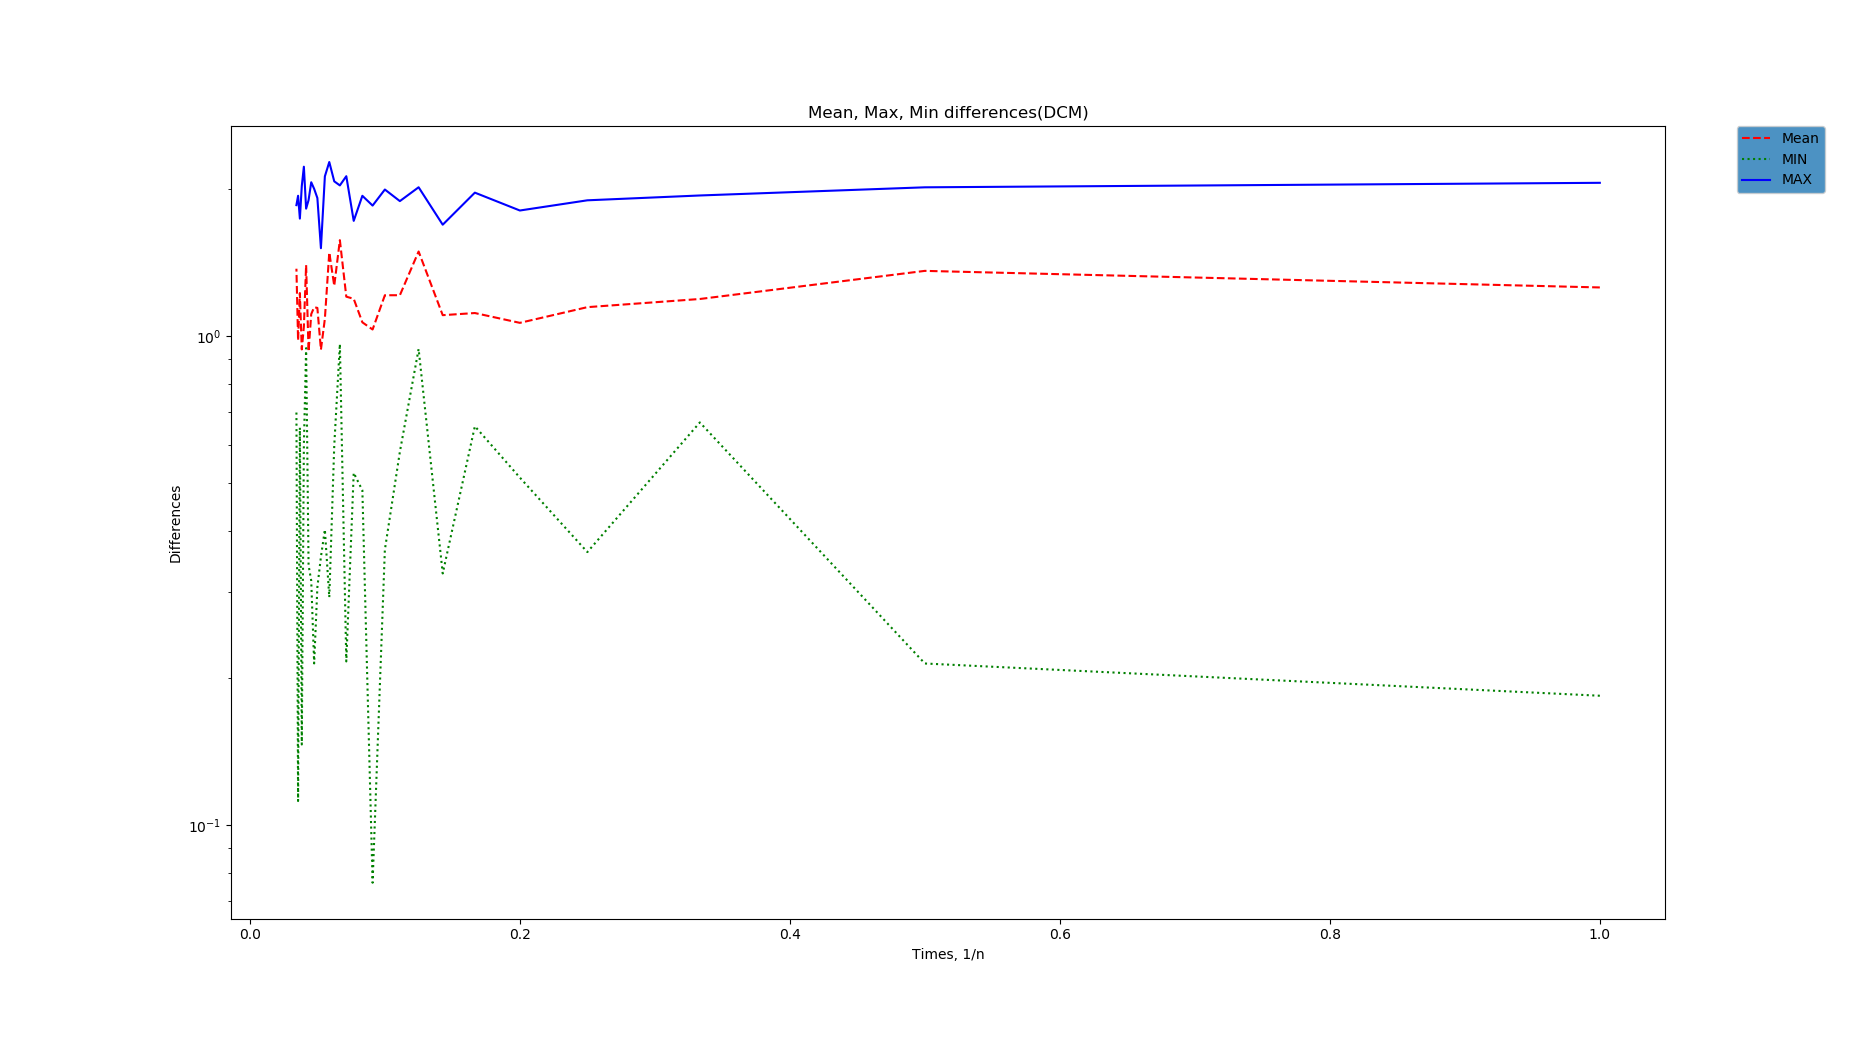
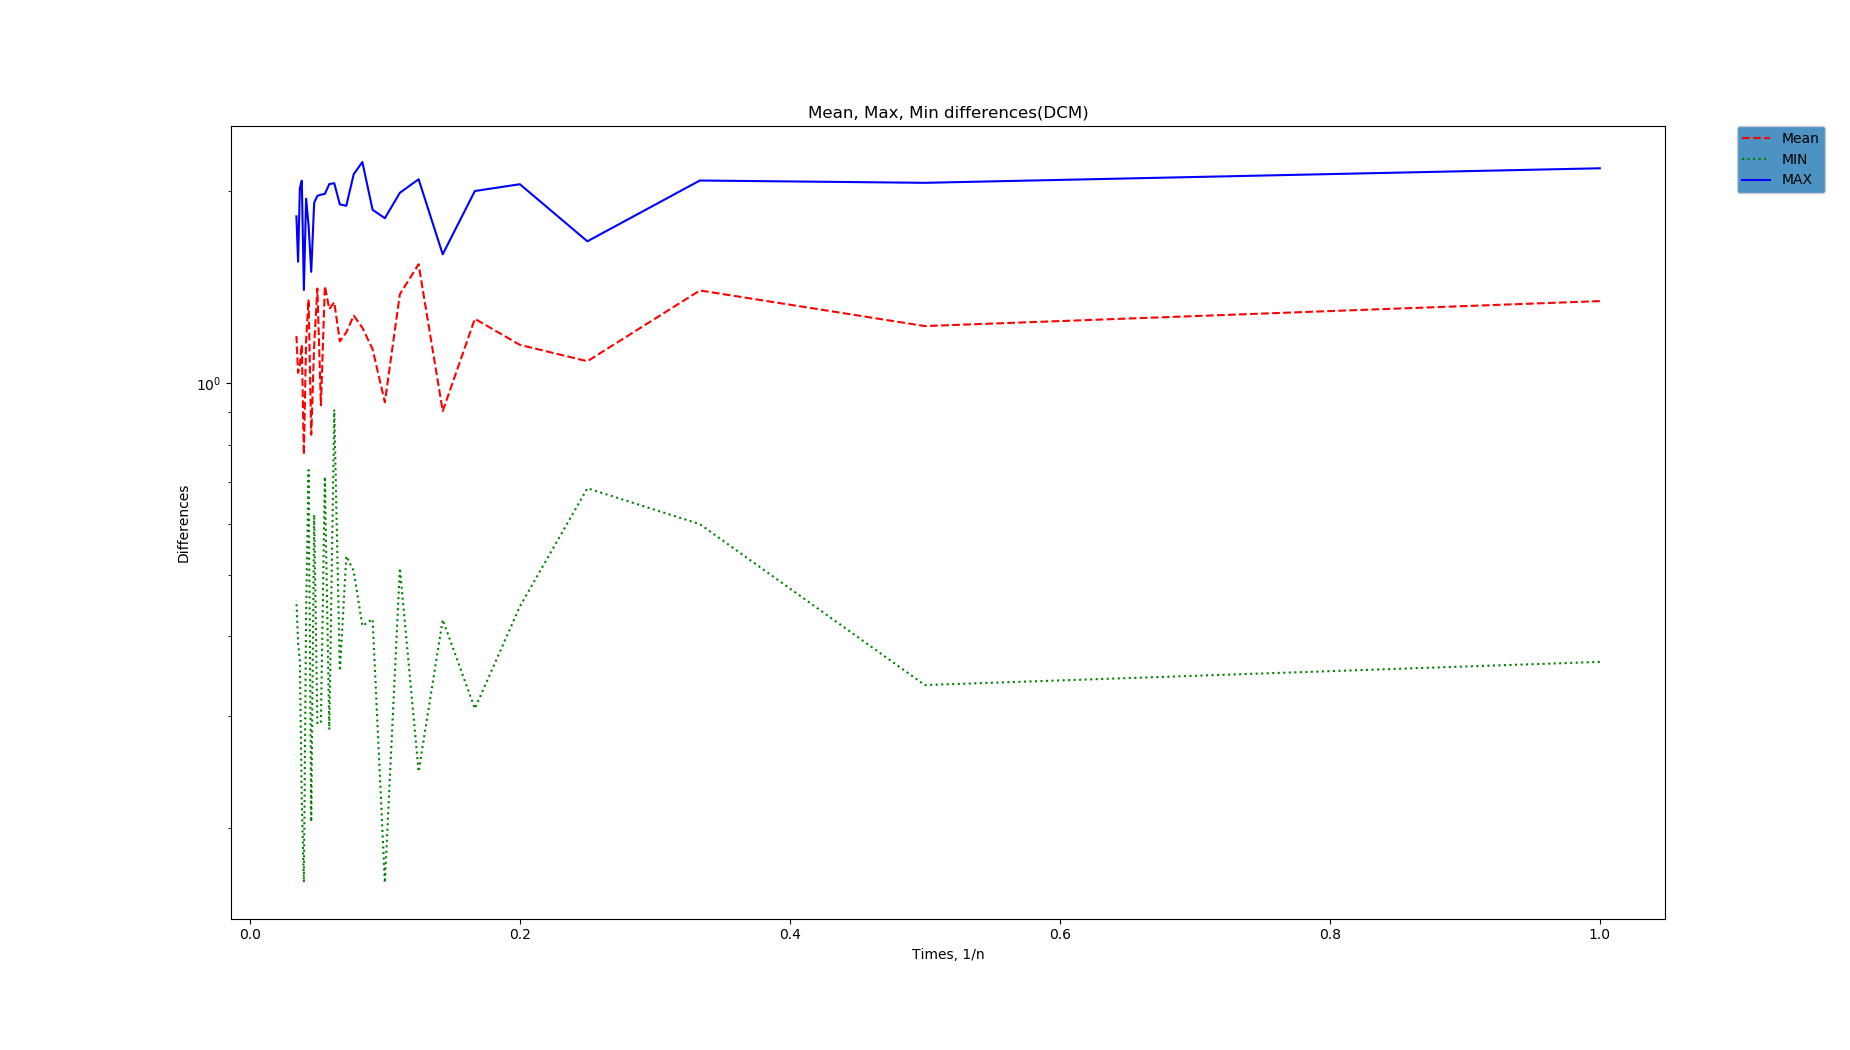
some plot examples

diff --git a/Quaternion_test.py b/Quaternion_test.py
@@ -19,6 +19,7 @@ C = A + B
 print(A)
 print(B)
 print(C)
+
 print("-------test on subtraction operation-------")
 E = Quaternion(1.0, 2.0, 3.0, 4.0)
 F = Quaternion(-2.0, 6.0, 7.0, 8.0)
@@ -26,6 +27,7 @@ G = E - F
 print(E)
 print(F)
 print(G)
+
 print("-------test on dot production-------")
 E = Quaternion(1.0, 2.0, 3.0, 4.0)
 F = Quaternion(-2.0, 6.0, 7.0, 8.0)
@@ -33,6 +35,7 @@ G = E.dot(F)
 print(E)
 print(F)
 print(G)
+
 print("-------test on multiply-------")
 E = Quaternion(1.0, 2.0, 3.0, 4.0)
 F = Quaternion(-2.0, 6.0, 7.0, 8.0)
@@ -40,6 +43,7 @@ G = E*F
 print(E)
 print(F)
 print(G)
+
 print("-------test on scalar multiply-------")
 E = Quaternion(1.0, 2.0, 3.0, 4.0)
 F = 100
@@ -47,28 +51,33 @@ G = E.scalar_mul(F)
 print(E)
 print(F)
 print(G)
+
 print("-------test on norm-------")
 E = Quaternion(1.0, 2.0, 3.0, 4.0)
 print(E.norm())
+
 print("-------test on conjugate-------")
 E = Quaternion(1.0, 2.0, 3.0, 4.0)
 print(E.conj())
+
 print("-------test on Quaternion to DCM-------")
 E = Quaternion(0.0, 1.0, 1.0, 1.0)
 D = E.toDCM()
 print(D)
+
 print("-------test on DCM to Quaternion-------")
 print(f.DCMtoQuaternion(D))
+
 print("-------test on rotation precision------")
 (X1, X2, MEANDIFF, MINDIFF, MAXDIFF) = f.Quaternion_rotation_precision(30, 10, np.pi / 2, np.pi / 2, np.pi / 2)
 fig, ax = plt.subplots()
-ax.semilogy(X1, MEANDIFF, 'k--', label='Mean', color = 'red')
-ax.semilogy(X1, MINDIFF, 'k:', label='MIN', color = 'green')
-ax.semilogy(X1, MAXDIFF, 'k', label='MAX', color = 'blue')
+ax.semilogy(X1, MEANDIFF, 'k--', label = 'Mean', color = 'red')
+ax.semilogy(X1, MINDIFF, 'k:', label = 'MIN', color = 'green')
+ax.semilogy(X1, MAXDIFF, 'k', label = 'MAX', color = 'blue')
 ax.set_xlabel("Times, 1/n")
 ax.set_ylabel("Differences")
 ax.set_title("Mean, Max, Min differences(Quaternion)")
-legend = ax.legend(loc=2, bbox_to_anchor=(1.05,1.0),borderaxespad = 0.)
+legend = ax.legend(loc=2, bbox_to_anchor = (1.05,1.0),borderaxespad = 0.)
 legend.get_frame().set_facecolor('C0')
 plt.show()
 fig.set_size_inches(18.5, 10.5)
@@ -77,9 +86,9 @@ fig.savefig('Quaternion_rotation_Precision.png', dpi = 100)
 print("-------test on DCM rotation-------")
 (X1, X2, MEANDIFF, MINDIFF, MAXDIFF) = f.DCM_rotation_precision(30, 10, np.pi / 2, np.pi / 2, np.pi / 2)
 fig, ax = plt.subplots()
-ax.semilogy(X1, MEANDIFF, 'k--', label='Mean', color = 'red')
-ax.semilogy(X1, MINDIFF, 'k:', label='MIN', color = 'green')
-ax.semilogy(X1, MAXDIFF, 'k', label='MAX', color = 'blue')
+ax.semilogy(X1, MEANDIFF, 'k--', label = 'Mean', color = 'red')
+ax.semilogy(X1, MINDIFF, 'k:', label = 'MIN', color = 'green')
+ax.semilogy(X1, MAXDIFF, 'k', label = 'MAX', color = 'blue')
 ax.set_xlabel("Times, 1/n")
 ax.set_ylabel("Differences")
 ax.set_title("Mean, Max, Min differences(DCM)")
@@ -92,8 +101,8 @@ fig.savefig('DCM_rotation_Precision.png', dpi = 100)
 print("-------compare output differences in Quaternion and DCM-------")
 (X1, X2, MEANDIFF_Q, MINDIFF_Q, MAXDIFF_Q, MEANDIFF_DCM, MINDIFF_Q, MAXDIFF_Q) = f.Quaternion_DCM_rotation_precision(30, 10, np.pi / 2, np.pi / 2, np.pi / 2)
 fig, ax = plt.subplots()
-ax.semilogy(X1, MEANDIFF_Q, 'k--', label='Quaternion', color = 'red')
-ax.semilogy(X1, MEANDIFF_DCM, 'k--', label='DCM', color = 'green')
+ax.semilogy(X1, MEANDIFF_Q, 'k--', label = 'Quaternion', color = 'red')
+ax.semilogy(X1, MEANDIFF_DCM, 'k--', label = 'DCM', color = 'green')
 ax.set_xlabel("Times, 1/n")
 ax.set_ylabel("Differences")
 ax.set_title("Mean Differences of DCM and Quaternion")
@@ -106,13 +115,13 @@ fig.savefig('DCM_Quaternion_Precision.png', dpi = 100)
 print("-------Quaternion, DCM in 300 rounds, 100 steps-------")
 (X1, X2, MEANDIFF, MINDIFF, MAXDIFF) = f.Quaternion_rotation_precision(30, 10, np.pi / 2, np.pi / 2, np.pi / 2)
 fig, ax = plt.subplots()
-ax.loglog(X1, MEANDIFF, 'k--', label='Mean', color = 'red')
-ax.loglog(X1, MINDIFF, 'k:', label='MIN', color = 'green')
-ax.loglog(X1, MAXDIFF, 'k', label='MAX', color = 'blue')
+ax.loglog(X1, MEANDIFF, 'k--', label = 'Mean', color = 'red')
+ax.loglog(X1, MINDIFF, 'k:', label = 'MIN', color = 'green')
+ax.loglog(X1, MAXDIFF, 'k', label = 'MAX', color = 'blue')
 ax.set_xlabel("Times, 1/n")
 ax.set_ylabel("Differences")
 ax.set_title("Mean, Max, Min differences(Quaternion), loglog_plot")
-legend = ax.legend(loc=2, bbox_to_anchor=(1.05,1.0),borderaxespad = 0.)
+legend = ax.legend(loc=2, bbox_to_anchor = (1.05, 1.0),borderaxespad = 0.)
 legend.get_frame().set_facecolor('C0')
 plt.show()
 fig.set_size_inches(18.5, 10.5)
@@ -120,13 +129,13 @@ fig.savefig('Quaternion_rotation_Precision_loglog.png', dpi = 100)
 
 (X1, X2, MEANDIFF, MINDIFF, MAXDIFF) = f.DCM_rotation_precision(30, 10, np.pi / 2, np.pi / 2, np.pi / 2)
 fig, ax = plt.subplots()
-ax.loglog(X1, MEANDIFF, 'k--', label='Mean', color = 'red')
-ax.loglog(X1, MINDIFF, 'k:', label='MIN', color = 'green')
-ax.loglog(X1, MAXDIFF, 'k', label='MAX', color = 'blue')
+ax.loglog(X1, MEANDIFF, 'k--', label = 'Mean', color = 'red')
+ax.loglog(X1, MINDIFF, 'k:', label = 'MIN', color = 'green')
+ax.loglog(X1, MAXDIFF, 'k', label = 'MAX', color = 'blue')
 ax.set_xlabel("Times, 1/n")
 ax.set_ylabel("Differences")
 ax.set_title("Mean, Max, Min differences(DCM), loglog_plot")
-legend = ax.legend(loc=2, bbox_to_anchor=(1.05,1.0),borderaxespad = 0.)
+legend = ax.legend(loc=2, bbox_to_anchor = (1.05, 1.0), borderaxespad = 0.)
 legend.get_frame().set_facecolor('C0')
 plt.show()
 fig.set_size_inches(18.5, 10.5)
@@ -134,8 +143,8 @@ fig.savefig('DCM_rotation_Precision_loglog.png', dpi = 100)
 
 (X1, X2, MEANDIFF_Q, MINDIFF_Q, MAXDIFF_Q, MEANDIFF_DCM, MINDIFF_Q, MAXDIFF_Q) = f.Quaternion_DCM_rotation_precision(30, 10, np.pi / 2, np.pi / 2, np.pi / 2)
 fig, ax = plt.subplots()
-ax.loglog(X1, MEANDIFF_Q, 'k--', label='Quaternion', color = 'red')
-ax.loglog(X1, MEANDIFF_DCM, 'k--', label='DCM', color = 'green')
+ax.loglog(X1, MEANDIFF_Q, 'k--', label = 'Quaternion', color = 'red')
+ax.loglog(X1, MEANDIFF_DCM, 'k--', label = 'DCM', color = 'green')
 ax.set_xlabel("Times, 1/n")
 ax.set_ylabel("Differences")
 ax.set_title("Mean Differences of DCM and Quaternion, loglog_plot")
@@ -146,14 +155,10 @@ fig.set_size_inches(18.5, 10.5)
 fig.savefig('DCM_Quaternion_Precision_loglog.png', dpi = 100)
 print("--------test on rotator differences-------")
 (X1, X2, DIAGONAL_CHECK_Q, OFF_DIAGONAL_CHECK_Q, ORTHONORMALITY_COL_Q, ORTHONORMALITY_ROW_Q, DIAGONAL_CHECK_DCM, OFF_DIAGONAL_CHECK_DCM, ORTHONORMALITY_COL_DCM, ORTHONORMALITY_ROW_DCM) = f.DCM_Quaternion_rotator_check(30, 10, np.pi / 2, np.pi / 2, np.pi / 2)
-#x1 = TemporaryFile()
-#np.save(x1, X1)
-#x1.seek(0)
-#np.load(x1)
 
 fig, ax = plt.subplots()
-ax.plot(X2, DIAGONAL_CHECK_Q, 'k--', label='Quaternion', color = 'red')
-ax.plot(X2, DIAGONAL_CHECK_DCM, 'k--', label='DCM', color = 'green')
+ax.plot(X2, DIAGONAL_CHECK_Q, 'k--', label = 'Quaternion', color = 'red')
+ax.plot(X2, DIAGONAL_CHECK_DCM, 'k--', label = 'DCM', color = 'green')
 ax.set_xlabel("Times")
 ax.set_ylabel("Diagonal_Differences")
 ax.set_title("DCM and Quaternion in diagonal check")
@@ -164,8 +169,8 @@ fig.set_size_inches(18.5, 10.5)
 fig.savefig('DCM_Quaternion_diagonal_check.png', dpi = 100)
 
 fig, ax = plt.subplots()
-ax.plot(X2, OFF_DIAGONAL_CHECK_Q, 'o', label='Quaternion', color = 'red')
-ax.plot(X2, OFF_DIAGONAL_CHECK_DCM, 'k--', label='DCM', color = 'green')
+ax.plot(X2, OFF_DIAGONAL_CHECK_Q, 'o', label = 'Quaternion', color = 'red')
+ax.plot(X2, OFF_DIAGONAL_CHECK_DCM, 'k--', label = 'DCM', color = 'green')
 ax.set_xlabel("Times")
 ax.set_ylabel("Off_Diagonal_Differences")
 ax.set_title("DCM and Quaternion in off diagonal check")
@@ -176,8 +181,8 @@ fig.set_size_inches(18.5, 10.5)
 fig.savefig('DCM_Quaternion_off_diagonal_check.png', dpi = 100)
 
 fig, ax = plt.subplots()
-ax.plot(X2, ORTHONORMALITY_ROW_Q, 'o', label='Quaternion', color = 'red')
-ax.plot(X2, ORTHONORMALITY_ROW_DCM, 'k--', label='DCM', color = 'green')
+ax.plot(X2, ORTHONORMALITY_ROW_Q, 'o', label = 'Quaternion', color = 'red')
+ax.plot(X2, ORTHONORMALITY_ROW_DCM, 'k--', label = 'DCM', color = 'green')
 ax.set_xlabel("Times")
 ax.set_ylabel("Orthonormality_check_row")
 ax.set_title("Orthonormality_check_row")
@@ -188,8 +193,8 @@ fig.set_size_inches(18.5, 10.5)
 fig.savefig('DCM_Quaternion_orthonormality_row_check.png', dpi = 100)
 
 fig, ax = plt.subplots()
-ax.plot(X2, ORTHONORMALITY_COL_Q, 'o', label='Quaternion', color = 'red')
-ax.plot(X2, ORTHONORMALITY_COL_DCM, 'k--', label='DCM', color = 'green')
+ax.plot(X2, ORTHONORMALITY_COL_Q, 'o', label = 'Quaternion', color = 'red')
+ax.plot(X2, ORTHONORMALITY_COL_DCM, 'k--', label = 'DCM', color = 'green')
 ax.set_ylabel("Orthonormality_check_col")
 ax.set_title("Orthonormality_check_col")
 legend = ax.legend(loc = 2)
@@ -202,13 +207,27 @@ fig.savefig('DCM_Quaternion_orthonormality_col_check.png', dpi = 100)
 (X1, X2, DIFF_CHECK_Q, DIFF_CHECK_DCM) = f.DCM_Quaternion_rotator_check2(30, 10, np.pi / 2, np.pi / 2, np.pi / 2)
 
 fig, ax = plt.subplots()
-ax.plot(X2, DIFF_CHECK_Q, 'k--', label='Quaternion', color = 'red')
-ax.plot(X2, DIFF_CHECK_DCM, 'k--', label='DCM', color = 'green')
+ax.plot(X2, DIFF_CHECK_Q, 'k--', label = 'Quaternion', color = 'red')
+ax.plot(X2, DIFF_CHECK_DCM, 'k--', label = 'DCM', color = 'green')
 ax.set_xlabel("Times")
 ax.set_ylabel("Differences")
-ax.set_title("DCM and Quaternion rotator check, Manhattan Distance")
-legend = ax.legend(loc = 2, bbox_to_anchor=(1.05,1.0),borderaxespad = 0.)
+ax.set_title("DCM and Quaternion rotator check, elemant differences")
+legend = ax.legend(loc = 2, bbox_to_anchor = (1.05, 1.0),borderaxespad = 0.)
 legend.get_frame().set_facecolor('C0')
 plt.show()
 fig.set_size_inches(18.5, 10.5)
-fig.savefig('DCM_Quaternion_MD.png', dpi = 100)
+fig.savefig('DCM_Quaternion_ed.png', dpi = 100)
+
+(X1, X2, DIFF_CHECK_Q, DIFF_CHECK_DCM) = f.DCM_Quaternion_rotator_check3(30, 10, np.pi / 2, np.pi / 2, np.pi / 2)
+
+fig, ax = plt.subplots()
+ax.plot(X2, DIFF_CHECK_Q, 'k--', label = 'Quaternion', color = 'red')
+ax.plot(X2, DIFF_CHECK_DCM, 'k--', label = 'DCM', color = 'green')
+ax.set_xlabel("Times")
+ax.set_ylabel("Differences")
+ax.set_title("DCM and Quaternion rotator check, angle differences")
+legend = ax.legend(loc = 2, bbox_to_anchor = (1.05, 1.0),borderaxespad = 0.)
+legend.get_frame().set_facecolor('C0')
+plt.show()
+fig.set_size_inches(18.5, 10.5)
+fig.savefig('DCM_Quaternion_ad.png', dpi = 100)

diff --git a/functions.py b/functions.py
@@ -300,8 +300,12 @@ def DCM_Quaternion_rotator_check(N, R, x_theta, y_theta, z_theta):
             x = random.random()
             y = random.random()
             z = random.random()
-            norm = math.sqrt(pow(x, 2) + pow(y, 2) + pow(z, 2))
-            DCM = computeDCM(random.random() * np.pi / 2, [x / norm, y / norm, z / norm])
+            
+            m1 = computeDCM(x, [1, 0, 0])
+            m2 = computeDCM(y, [0, 1, 0])
+            m3 = computeDCM(z, [0, 0, 1])
+            
+            DCM = m3 @ m2 @ m1
             Q = DCMtoQuaternion(DCM)
             steps = n
             m1 = computeDCM(x_theta / steps, [1, 0, 0])
@@ -348,7 +352,7 @@ def DCM_check (aDCM,bDCM):
     diff = abs(aDCM[0][0] - bDCM[0][0]) + abs(aDCM[0][1] - bDCM[0][1]) + abs(aDCM[0][2] - bDCM[0][2]) + \
     abs(aDCM[1][0] - bDCM[1][0]) + abs(aDCM[1][1] - bDCM[1][1]) + abs(aDCM[1][2] - bDCM[1][2]) + \
     abs(aDCM[2][0] - bDCM[2][0]) + abs(aDCM[2][1] - bDCM[2][1]) + abs(aDCM[2][2] - bDCM[2][2])
-    return diff/9.0
+    return diff / 9.0
 
 def DCM_Quaternion_rotator_check2(N, R, x_theta, y_theta, z_theta):
     '''
@@ -369,7 +373,7 @@ def DCM_Quaternion_rotator_check2(N, R, x_theta, y_theta, z_theta):
     
     for n in range (1, N):
         diff_chk_q = 0
-        diff_chk_DCM = 0
+        diff_chk_dcm = 0
 
         for r in range(0, R):
             x = random.random()
@@ -387,9 +391,9 @@ def DCM_Quaternion_rotator_check2(N, R, x_theta, y_theta, z_theta):
             m1 = computeDCM(x_theta / steps, [1, 0, 0])
             m2 = computeDCM(y_theta / steps, [0, 1, 0])
             m3 = computeDCM(z_theta / steps, [0, 0, 1])
-            q1 = Quaternion(math.cos(x_theta / (2*steps)), math.sin(x_theta / (2 * steps)), 0, 0).norm_q()
-            q2 = Quaternion(math.cos(y_theta / (2*steps)), 0, math.sin(y_theta / (2 * steps)), 0).norm_q()
-            q3 = Quaternion(math.cos(z_theta / (2*steps)), 0, 0, math.sin(z_theta / (2 * steps))).norm_q()
+            q1 = Quaternion(math.cos(x_theta / (2 * steps)), math.sin(x_theta / (2 * steps)), 0, 0).norm_q()
+            q2 = Quaternion(math.cos(y_theta / (2 * steps)), 0, math.sin(y_theta / (2 * steps)), 0).norm_q()
+            q3 = Quaternion(math.cos(z_theta / (2 * steps)), 0, 0, math.sin(z_theta / (2 * steps))).norm_q()
             for i in range(0, steps):
                 DCM = m1 @ DCM
                 Q = (q1 * Q).norm_q()
@@ -401,11 +405,76 @@ def DCM_Quaternion_rotator_check2(N, R, x_theta, y_theta, z_theta):
                 Q = (q3 * Q).norm_q()
             Q = Q.toDCM();
             diff_chk_q += DCM_check(Q, DCM_zero)
-            diff_chk_DCM += DCM_check(DCM, DCM_zero)
+            diff_chk_dcm += DCM_check(DCM, DCM_zero)
         X1.append(1.0 / n)
         X2.append(n)
         DIFF_CHECK_Q.append(diff_chk_q / R)
-        DIFF_CHECK_DCM.append(diff_chk_DCM / R)
+        DIFF_CHECK_DCM.append(diff_chk_dcm / R)
+        
+    return X1, X2, DIFF_CHECK_Q, DIFF_CHECK_DCM
+
+def extracAngleDCM(aDCM, x, y, z):
+    alpha = np.arctan(aDCM[1][2] / aDCM[2][2])
+    beta = np.arcsin(-aDCM[0][2])
+    gamma = np.arctan(aDCM[0][1] / aDCM[0][0])
+    diff = abs(x - alpha) + abs(y - beta) + abs(z - gamma)
+    return diff / 3.0
+
+def DCM_Quaternion_rotator_check3(N, R, x_theta, y_theta, z_theta):
+    '''
+    calculate how many differences in angles from rotation operator after rotation, radians
+    
+    arguments:
+        N: how many steps for each round, steps is N in loop
+        R: how many rounds you want to compute
+        x_theta: total rotation angle around x-axis, radian
+        y_theta: total rotation angle around y-axis, radian
+        z_theta: total rotation angle around z-axis, radian    
+    '''
+    X1 = []
+    X2 = []
+    DIFF_CHECK_Q = []
+    DIFF_CHECK_DCM = []
+
+    
+    for n in range (1, N):
+        diff_chk_q = 0
+        diff_chk_dcm = 0
+
+        for r in range(0, R):
+            x = random.random()
+            y = random.random()
+            z = random.random()
+
+            m1 = computeDCM(x, [1, 0, 0])
+            m2 = computeDCM(y, [0, 1, 0])
+            m3 = computeDCM(z, [0, 0, 1])
+            
+            DCM = m3 @ m2 @ m1
+            Q = DCMtoQuaternion(DCM)
+            steps = n
+            m1 = computeDCM(x_theta / steps, [1, 0, 0])
+            m2 = computeDCM(y_theta / steps, [0, 1, 0])
+            m3 = computeDCM(z_theta / steps, [0, 0, 1])
+            q1 = Quaternion(math.cos(x_theta / (2 * steps)), math.sin(x_theta / (2 * steps)), 0, 0).norm_q()
+            q2 = Quaternion(math.cos(y_theta / (2 * steps)), 0, math.sin(y_theta / (2 * steps)), 0).norm_q()
+            q3 = Quaternion(math.cos(z_theta / (2 * steps)), 0, 0, math.sin(z_theta / (2 * steps))).norm_q()
+            for i in range(0, steps):
+                DCM = m1 @ DCM
+                Q = (q1 * Q).norm_q()
+            for j in range(0, steps):
+                DCM = m2 @ DCM
+                Q = (q2 * Q).norm_q()
+            for k in range(0, steps):
+                DCM = m3 @ DCM
+                Q = (q3 * Q).norm_q()
+            Q = Q.toDCM();
+            diff_chk_q += extracAngleDCM(Q, x, y, z)
+            diff_chk_dcm += extracAngleDCM(DCM, x, y, z)
+        X1.append(1.0 / n)
+        X2.append(n)
+        DIFF_CHECK_Q.append(diff_chk_q / R)
+        DIFF_CHECK_DCM.append(diff_chk_dcm / R)
         
     return X1, X2, DIFF_CHECK_Q, DIFF_CHECK_DCM
 
